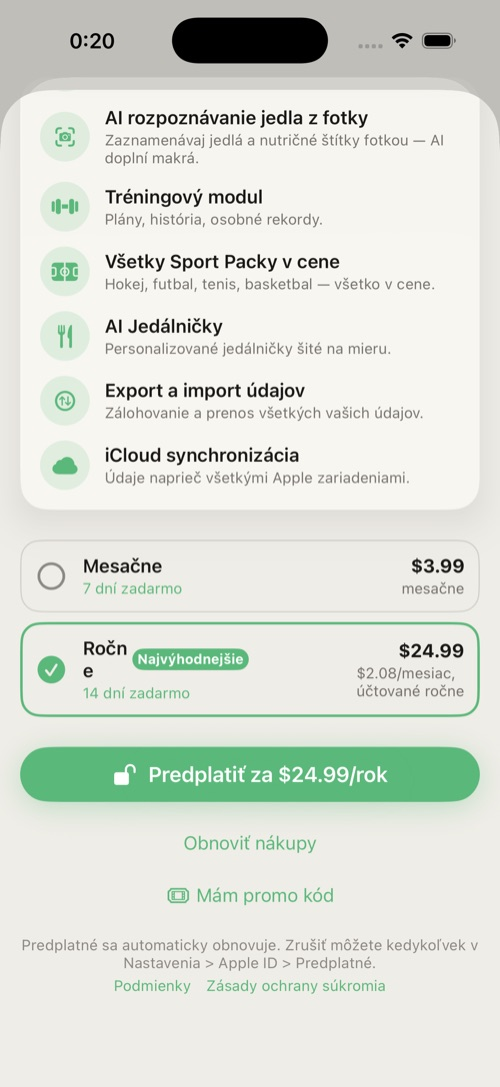
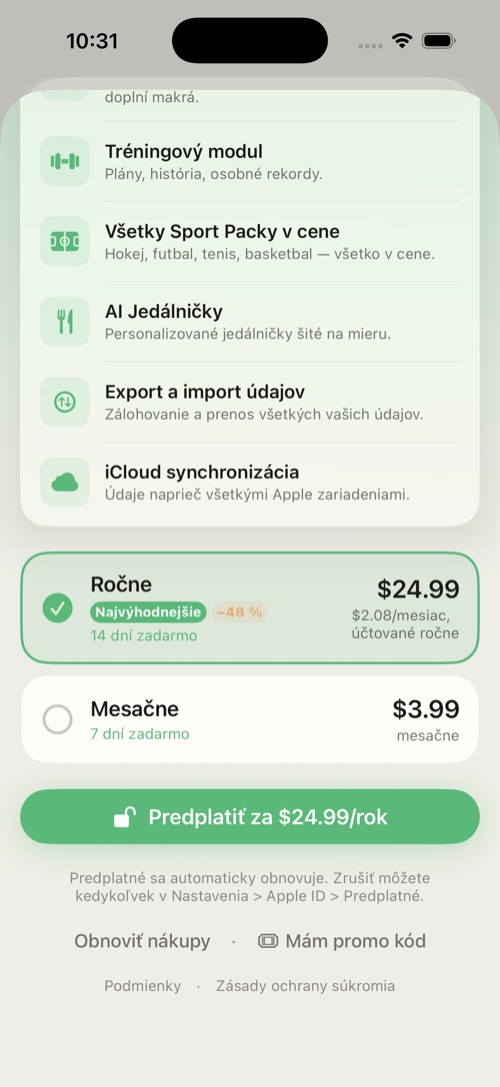
manual: proper figures in all formats, Apple Health (not Watch) wording, new paywall screenshot
- Every screenshot is now a real <figure> with <figcaption> (no caption glued
  to the image), baked into the source.
- Clarify that recovery/HRV/sleep data is read from Apple Health from any
  source (Watch, Garmin, Oura, Whoop, iPhone…); the Watch app is optional.
- Refreshed paywall screenshot (yearly plan name no longer clipped).

diff --git a/manual/sk.html b/manual/sk.html
@@ -780,6 +780,15 @@ alt="Rozbalená lišta regenerácie s vysvetleniami jednotlivých metrík." />
 <figcaption aria-hidden="true">Rozbalená lišta regenerácie s
 vysvetleniami jednotlivých metrík.</figcaption>
 </figure>
+<blockquote>
+<p><strong>Poznámka — netreba Apple Watch.</strong> Skóre regenerácie aj
+všetky zdravotné metriky (HRV, tepová frekvencia, spánok, SpO₂…) Subten
+<strong>číta z Apple Health</strong>, nie priamo z hodiniek. Zdrojom
+môže byť <strong>čokoľvek, čo tieto dáta do Apple Health
+zapisuje</strong> — Apple Watch, Garmin, Oura, Whoop, iné náramky či
+prstene, alebo aj samotný iPhone (kroky, spánok). Ak v Apple Health
+žiadne také dáta nie sú, regenerácia sa jednoducho nezobrazí.</p>
+</blockquote>
 <h2 id="panel-nástrojov">4.3 Panel nástrojov</h2>
 <ul>
 <li><strong>Ozubené koliesko</strong> — otvorí
@@ -1320,6 +1329,13 @@ udrží vaše dáta čisté a adaptáciu presnú.</p>
 <h1 id="časť-v-apple-watch-a-skratky">10 Časť V — Apple Watch a
 skratky</h1>
 <h2 id="aplikácia-pre-watch">10.1 Aplikácia pre Watch</h2>
+<p>Aplikácia Subten pre Apple Watch je <strong>voliteľný
+doplnok</strong> — pohodlný pohľad na deň priamo na zápästí (kruhy,
+voda, komplikácie). <strong>Nie je podmienkou používania
+Subtenu:</strong> zdravotné dáta (regeneráciu, spánok, tepovú
+frekvenciu…) číta Subten z Apple Health nezávisle od nej, takže do Apple
+Health môže prispievať aj hodinky inej značky alebo iný nositeľný senzor
+(pozri kapitolu 11).</p>
 <p>Domovská obrazovka na hodinkách zrkadlí váš deň:</p>
 <ul>
 <li><strong>Sústredné kruhy</strong> — kalórie plus bielkoviny,
@@ -1350,6 +1366,13 @@ Skratky; hodinky pridávajú akciu <em>Zapísať vodu</em>.</p>
 <p>Subten žiada o prístup k Zdraviu, len keď ho výslovne povolíte (krok
 7 onboardingu alebo <strong>Nastavenia → Zdravie</strong>). Každý typ
 údajov ovládate samostatne.</p>
+<p>Subten číta to, čo je <strong>v Apple Health</strong>, bez ohľadu na
+to, ktoré zariadenie tam dáta zapísalo. <strong>Apple Watch nie je
+podmienka</strong> — postačí čokoľvek, čo do Apple Health prispieva:
+Apple Watch, Garmin, Oura, Whoop, iné náramky a prstene, alebo samotný
+iPhone (kroky, spánok). Čím viac dát v Apple Health máte, tým presnejšie
+sú regenerácia a odporúčania; bez nich Subten funguje ďalej, len tieto
+funkcie ostanú prázdne.</p>
 <table>
 <colgroup>
 <col style="width: 50%" />

diff --git a/manual/cs.html b/manual/cs.html
@@ -777,6 +777,15 @@ alt="Rozbalený panel regenerace s vysvětlením jednotlivých metrik." />
 <figcaption aria-hidden="true">Rozbalený panel regenerace s vysvětlením
 jednotlivých metrik.</figcaption>
 </figure>
+<blockquote>
+<p><strong>Poznámka — Apple Watch není potřeba.</strong> Skóre
+regenerace i všechny zdravotní metriky (HRV, tepová frekvence, spánek,
+SpO₂…) Subten <strong>čte z Apple Health</strong>, ne přímo z hodinek.
+Zdrojem může být <strong>cokoli, co tato data do Apple Health
+zapisuje</strong> — Apple Watch, Garmin, Oura, Whoop, jiné náramky či
+prsteny, nebo i samotný iPhone (kroky, spánek). Pokud v Apple Health
+žádná taková data nejsou, regenerace se jednoduše nezobrazí.</p>
+</blockquote>
 <h2 id="panel-nástrojů">4.3 Panel nástrojů</h2>
 <ul>
 <li><strong>Ozubené kolo</strong> — otevře <strong>Nastavení</strong>
@@ -1305,6 +1314,12 @@ udržuje vaše data čistá a adaptaci přesnou.</p>
 <h1 id="část-v-apple-watch-a-zkratky">10 Část V — Apple Watch a
 zkratky</h1>
 <h2 id="aplikace-pro-hodinky">10.1 Aplikace pro hodinky</h2>
+<p>Aplikace Subten pro Apple Watch je <strong>volitelný doplněk</strong>
+— pohodlný pohled na den přímo na zápěstí (kruhy, voda, komplikace).
+<strong>Není podmínkou používání Subtenu:</strong> zdravotní data
+(regeneraci, spánek, tepovou frekvenci…) čte Subten z Apple Health
+nezávisle na ní, takže do Apple Health mohou přispívat i hodinky jiné
+značky nebo jiný nositelný senzor (viz kapitola 11).</p>
 <p>Domovská obrazovka na hodinkách zrcadlí váš den:</p>
 <ul>
 <li><strong>Soustředné kruhy</strong> — kalorie plus bílkoviny,
@@ -1334,6 +1349,13 @@ Zkratky; hodinky přidávají akci <em>Zapsat vodu</em>.</p>
 <p>Subten žádá o přístup ke Zdraví, jen když jej výslovně povolíte (krok
 7 úvodního nastavení nebo <strong>Nastavení → Zdraví</strong>). Každý
 typ dat ovládáte samostatně.</p>
+<p>Subten čte to, co je <strong>v Apple Health</strong>, bez ohledu na
+to, které zařízení tam data zapsalo. <strong>Apple Watch není
+podmínka</strong> — stačí cokoli, co do Apple Health přispívá: Apple
+Watch, Garmin, Oura, Whoop, jiné náramky a prsteny, nebo samotný iPhone
+(kroky, spánek). Čím více dat v Apple Health máte, tím přesnější jsou
+regenerace a doporučení; bez nich Subten funguje dál, jen tyto funkce
+zůstanou prázdné.</p>
 <table>
 <colgroup>
 <col style="width: 50%" />

diff --git a/manual/en.html b/manual/en.html
@@ -773,6 +773,15 @@ alt="The expanded recovery bar with per-metric explanations." />
 <figcaption aria-hidden="true">The expanded recovery bar with per-metric
 explanations.</figcaption>
 </figure>
+<blockquote>
+<p><strong>Note — no Apple Watch required.</strong> Subten
+<strong>reads</strong> the recovery score and every health metric (HRV,
+heart rate, sleep, SpO₂…) <strong>from Apple Health</strong>, not
+directly from a watch. The source can be <strong>anything that writes
+those metrics into Apple Health</strong> — an Apple Watch, Garmin, Oura,
+Whoop, other bands or rings, or even the iPhone itself (steps, sleep).
+If Apple Health holds no such data, recovery simply won’t appear.</p>
+</blockquote>
 <h2 id="toolbar">4.3 Toolbar</h2>
 <ul>
 <li><strong>Gear</strong> — opens <strong>Settings</strong> (chapter
@@ -1299,6 +1308,12 @@ your data clean and your adaptation accurate.</p>
 <h1 id="part-v-apple-watch-shortcuts">10 Part V — Apple Watch &amp;
 shortcuts</h1>
 <h2 id="the-watch-app">10.1 The Watch app</h2>
+<p>The Subten Apple Watch app is an <strong>optional bonus</strong> — a
+convenient glance at your day right on your wrist (rings, water,
+complications). <strong>It is not required to use Subten:</strong> the
+health data (recovery, sleep, heart rate…) is read from Apple Health
+independently of it, so any other brand of watch or wearable sensor that
+feeds Apple Health works just as well (see chapter 11).</p>
 <p>The Watch home screen mirrors your day:</p>
 <ul>
 <li><strong>Concentric rings</strong> — calories plus protein, carbs,
@@ -1329,6 +1344,13 @@ adds a <em>Log Water</em> intent.</p>
 <p>Subten asks for Health access only when you explicitly enable it
 (onboarding step 7 or <strong>Settings → Health</strong>). You control
 each type separately.</p>
+<p>Subten reads whatever is <strong>in Apple Health</strong>, regardless
+of which device wrote it. <strong>An Apple Watch is not
+required</strong> — anything that feeds Apple Health works: an Apple
+Watch, Garmin, Oura, Whoop, other bands and rings, or the iPhone itself
+(steps, sleep). The more data Apple Health holds, the more accurate
+recovery and recommendations are; without it Subten still works, those
+features just stay empty.</p>
 <table>
 <colgroup>
 <col style="width: 50%" />